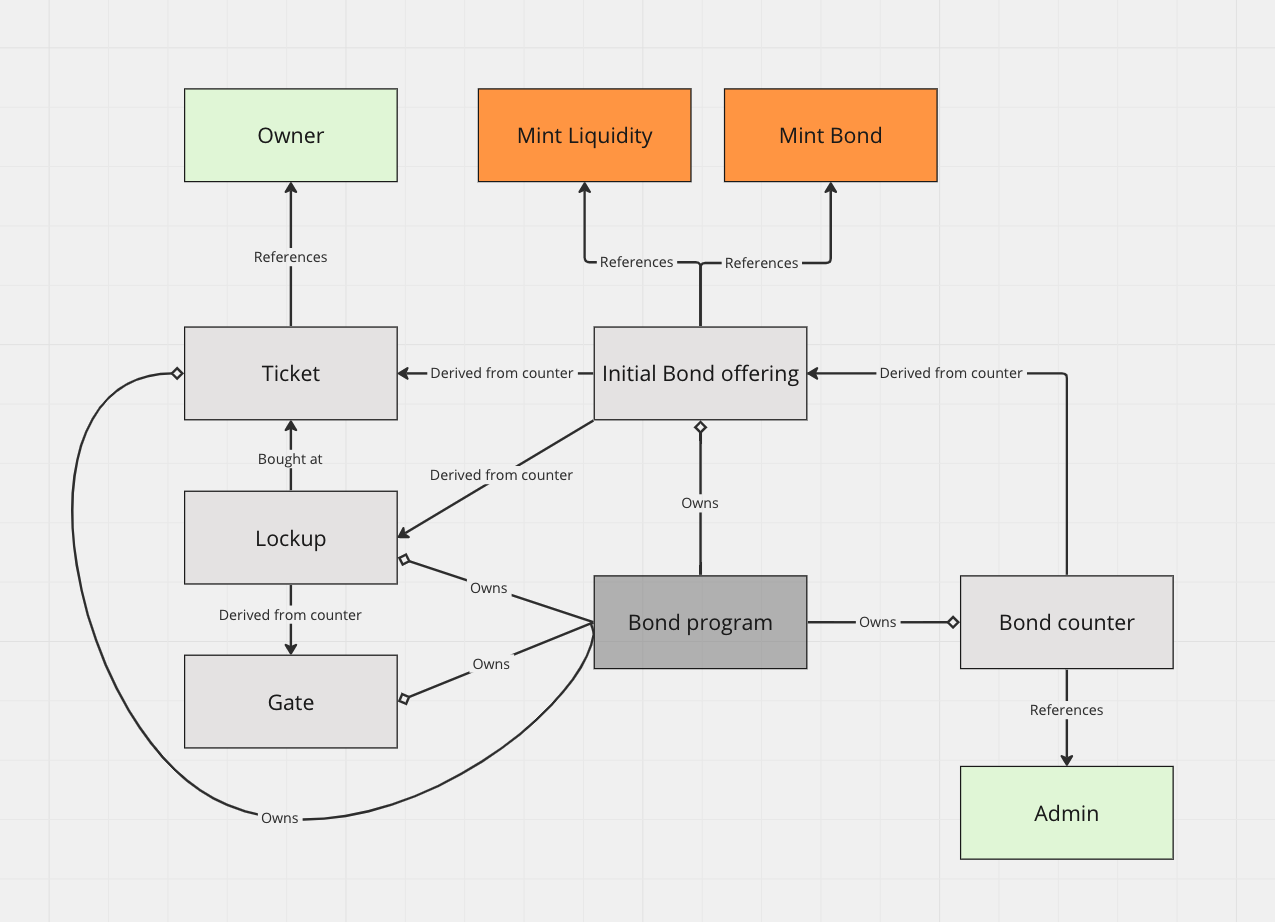
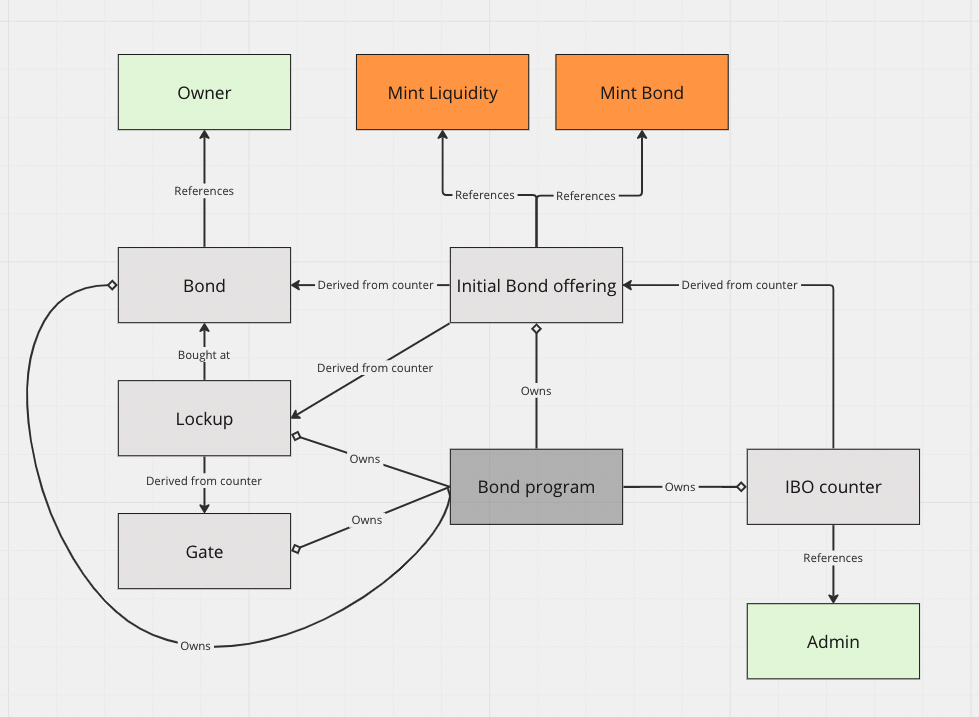
updated readme

diff --git a/tests/dark-bonds.ts b/tests/dark-bonds.ts
@@ -792,106 +792,106 @@ describe("dark-bonds", async () => {
     // Check calculation of bond to receive is correct
   });
 
-  // it("Claim test 1", async () => {
-  //   console.log("bond: ", bond2.toBase58());
+  it("Claim test 1", async () => {
+    console.log("bond: ", bond2.toBase58());
 
-  //   let bondBalanceStart = await getTokenBalance(bond2ATA_b);
-  //   let bond1_state = await bondProgram.account.bond.fetch(bond2);
-  //   let bondStartTime = parseInt(bond1_state.bondStart.toString());
+    let bondBalanceStart = await getTokenBalance(bond2ATA_b);
+    let bond1_state = await bondProgram.account.bond.fetch(bond2);
+    let bondStartTime = parseInt(bond1_state.bondStart.toString());
 
-  //   let time_now_s = new Date().getTime() / 1000;
+    let time_now_s = new Date().getTime() / 1000;
 
-  //   console.log("bond started: ", bondStartTime);
-  //   console.log("bond end at:  ", bondStartTime + shortBond);
-  //   console.log("time now:     ", time_now_s);
-  //   let time_elapsed = time_now_s - bondStartTime;
-  //   console.log("time elapsed: ", time_elapsed);
+    console.log("bond started: ", bondStartTime);
+    console.log("bond end at:  ", bondStartTime + shortBond);
+    console.log("time now:     ", time_now_s);
+    let time_elapsed = time_now_s - bondStartTime;
+    console.log("time elapsed: ", time_elapsed);
 
-  //   await delay(shortBond / 2 - time_elapsed);
+    await delay(shortBond / 2 - time_elapsed);
 
-  //   const tx_lu1 = await bondProgram.methods
-  //     .claim(ibo0, 2)
-  //     .accounts({
-  //       bondOwner: bondBuyer2.publicKey,
-  //       bond: bond2,
-  //       bondOwnerAta: bondBuyer2ATA_b.address,
-  //       bondAta: bond2ATA_b.address,
-  //       systemProgram: anchor.web3.SystemProgram.programId,
-  //     })
-  //     .signers([bondBuyer2])
-  //     .rpc();
+    const tx_lu1 = await bondProgram.methods
+      .claim(ibo0, 2)
+      .accounts({
+        bondOwner: bondBuyer2.publicKey,
+        bond: bond2,
+        bondOwnerAta: bondBuyer2ATA_b.address,
+        bondAta: bond2ATA_b.address,
+        systemProgram: anchor.web3.SystemProgram.programId,
+      })
+      .signers([bondBuyer2])
+      .rpc();
 
-  //   // Get bond amounts
-  //   let balanceBuyer = await getTokenBalance(bondBuyer2ATA_b);
-  //   let bondBalance = await getTokenBalance(bond2ATA_b);
+    // Get bond amounts
+    let balanceBuyer = await getTokenBalance(bondBuyer2ATA_b);
+    let bondBalance = await getTokenBalance(bond2ATA_b);
 
-  //   console.log("balanceBuyer: ", balanceBuyer);
-  //   console.log("bond: ", bondBalance);
+    console.log("balanceBuyer: ", balanceBuyer);
+    console.log("bond: ", bondBalance);
 
-  //   assert(roughlyEqual(0.5, balanceBuyer / bondBalanceStart, 15));
-  // });
+    assert(roughlyEqual(0.5, balanceBuyer / bondBalanceStart, 15));
+  });
 
-  // it("Claim test 1, almost full amount", async () => {
-  //   console.log("bond: ", bond2.toBase58());
+  it("Claim test 1, almost full amount", async () => {
+    console.log("bond: ", bond2.toBase58());
 
-  //   let bondBalanceStart = await getTokenBalance(bond2ATA_b);
+    let bondBalanceStart = await getTokenBalance(bond2ATA_b);
 
-  //   await delay(8);
+    await delay(8);
 
-  //   // Spend 500 for rate 1 as player 1
-  //   const tx_lu1 = await bondProgram.methods
-  //     .claim(ibo0, 2)
-  //     .accounts({
-  //       bondOwner: bondBuyer2.publicKey,
-  //       bond: bond2,
-  //       bondOwnerAta: bondBuyer2ATA_b.address,
-  //       bondAta: bond2ATA_b.address,
-  //       systemProgram: anchor.web3.SystemProgram.programId,
-  //     })
-  //     .signers([bondBuyer2])
-  //     .rpc();
+    // Spend 500 for rate 1 as player 1
+    const tx_lu1 = await bondProgram.methods
+      .claim(ibo0, 2)
+      .accounts({
+        bondOwner: bondBuyer2.publicKey,
+        bond: bond2,
+        bondOwnerAta: bondBuyer2ATA_b.address,
+        bondAta: bond2ATA_b.address,
+        systemProgram: anchor.web3.SystemProgram.programId,
+      })
+      .signers([bondBuyer2])
+      .rpc();
 
-  //   // Get bond amounts
-  //   let balanceBuyer = await getTokenBalance(bondBuyer2ATA_b);
-  //   let bondBalance = await getTokenBalance(bond2ATA_b);
+    // Get bond amounts
+    let balanceBuyer = await getTokenBalance(bondBuyer2ATA_b);
+    let bondBalance = await getTokenBalance(bond2ATA_b);
 
-  //   console.log("balanceBuyer: ", balanceBuyer);
-  //   console.log("bond: ", bondBalance);
+    console.log("balanceBuyer: ", balanceBuyer);
+    console.log("bond: ", bondBalance);
 
-  //   // assert(roughlyEqual(0.5, balanceBuyer / bondBalanceStart, 10));
-  // });
+    // assert(roughlyEqual(0.5, balanceBuyer / bondBalanceStart, 10));
+  });
 
-  // it("Claim test 1, full", async () => {
-  //   console.log("bond: ", bond2.toBase58());
+  it("Claim test 1, full", async () => {
+    console.log("bond: ", bond2.toBase58());
 
-  //   let bondBalanceStart = await getTokenBalance(bond2ATA_b);
-  //   let bond2_state = await bondProgram.account.bond.fetch(bond2);
+    let bondBalanceStart = await getTokenBalance(bond2ATA_b);
+    let bond2_state = await bondProgram.account.bond.fetch(bond2);
 
-  //   await delay(8);
+    await delay(8);
 
-  //   // Spend 500 for rate 1 as player 1
-  //   const tx_lu1 = await bondProgram.methods
-  //     .claim(ibo0, 2)
-  //     .accounts({
-  //       bondOwner: bondBuyer2.publicKey,
-  //       bond: bond2,
-  //       bondOwnerAta: bondBuyer2ATA_b.address,
-  //       bondAta: bond2ATA_b.address,
-  //       systemProgram: anchor.web3.SystemProgram.programId,
-  //     })
-  //     .signers([bondBuyer2])
-  //     .rpc();
+    // Spend 500 for rate 1 as player 1
+    const tx_lu1 = await bondProgram.methods
+      .claim(ibo0, 2)
+      .accounts({
+        bondOwner: bondBuyer2.publicKey,
+        bond: bond2,
+        bondOwnerAta: bondBuyer2ATA_b.address,
+        bondAta: bond2ATA_b.address,
+        systemProgram: anchor.web3.SystemProgram.programId,
+      })
+      .signers([bondBuyer2])
+      .rpc();
 
-  //   // Get bond amounts
-  //   let balanceBuyer = await getTokenBalance(bondBuyer2ATA_b);
-  //   let bondBalance = await getTokenBalance(bond2ATA_b);
+    // Get bond amounts
+    let balanceBuyer = await getTokenBalance(bondBuyer2ATA_b);
+    let bondBalance = await getTokenBalance(bond2ATA_b);
 
-  //   console.log("balanceBuyer: ", balanceBuyer);
-  //   console.log("bond: ", bondBalance);
+    console.log("balanceBuyer: ", balanceBuyer);
+    console.log("bond: ", bondBalance);
 
-  //   assert(bondBalance == 0);
-  //   assert(balanceBuyer.toString() == bond2_state.totalClaimable.toString());
-  // });
+    assert(bondBalance == 0);
+    assert(balanceBuyer.toString() == bond2_state.totalClaimable.toString());
+  });
 
   it("Split bond bond 50%", async () => {
     console.log("bond: ", bond2.toBase58());

diff --git a/README.MD b/README.MD
@@ -2,6 +2,31 @@
 # Bonds
 
 
+
+This protocol (BondFort), is a decentralized finance (DeFi) platform built on the Solana blockchain network, which allows participants to engage in the issuance, trading, and management of tokenized bonds. The platform works by allowing an entity, (referred to as the bond master), to issue bonds. Each bond represents a promise to pay a certain amount (the face value) at a future date (maturity date). 
+
+![image description](pepe_bond.png)
+
+For each bond, the bond master can set different lock-up types. Each of these lock-up types would have their own unique set of parameters:
+
+- Lock-up period: This is the length of time during which the bond must be held before it can be fully redeemed. This period could range from a few months to several years. During this time, the bondholder can't redeem the bond for its full value, although they might be able to sell it to another investor.
+
+- APY: The Annual Percentage Yield represents the rate of return that bondholders can expect over a one-year period, taking into account the effect of compounding. The bond master can set different APYs for different lock-up types, offering higher returns for longer lock-up periods as an incentive for investors to hold the bond for a longer time.
+
+The bond master can also introduce additional restrictions or features for each lock-up type:
+
+- NFT community restrictions: The bond master can restrict certain lock-up types to be exclusive to specific NFT communities. 
+
+- Maturity-only claims: In some cases, the bond master might set up a lock-up type where the returns can only be claimed when the bond reaches maturity. This would mean that the bondholders have to hold the bond for the entire lock-up period to get their returns. This could be used to encourage long-term holding and stabilize the price of the bond.
+
+These bonds are tokenized, meaning each bond is represented by a unique record entry for this specic bond offering. This fractionalisation allows for the easy and secure transfer of ownership of these bonds.
+
+Once issued, these bonds are available for purchase by the users. A user purchases a bond by paying in the underlying token specified by the bond master. The purchased bond earns interest over time, which is paid out to the bondholder. The interest can be withdrawn by the bondholder as it accrues, which provides an income stream for the bondholder. Though interest is calculated based on compounding APY, this is done once at the start, after that locked tokens are released linearly.
+
+Additionally, users can sell their bonds to other users. This is facilitated by a secondary market function within the platform, where bonds can be listed for sale. The seller can set the sale price, and potential buyers can browse the listed bonds and purchase ones they are interested in. When a bond is sold, the sale price is divided among various parties. The seller receives the majority of the sale price. However, a portion of the sale price is taken as a cut by the bond master. This cut is further divided between the bond master and the master master.
+
+Each bond offering also includes lockups. These prevent bond master from draining the bond PDA of underlying token or introducing lockups that favour them over those that have already pruchsed some bonds.
+
 ## State architecture
 
 ![image description](diagram.png)
@@ -22,11 +47,12 @@ Then  you need to:
 ### Clean-up
 
 [x] change lockup to lockup  
-[x] change ticket to bond
+[x] change ticket to bond  
 [ ] Remove `msg!`  
-[ ] In the diageam change:
+[X] In the diagram change:
     - Bond counter to Bond offering counter
     - Ticket to Bond
+[ ] Remove any fucking american spelling
 
 ### Functionality
 
